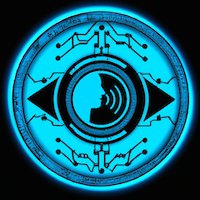
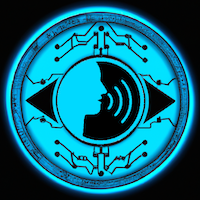
Improved visuals
Made the token better
Adjusted visual sizes so transitions didn't jump

diff --git a/application/frontend/src/components/TargetVisualizer.js b/application/frontend/src/components/TargetVisualizer.js
@@ -30,7 +30,7 @@ function TargetVisualizer({ numberOfRings, fillAmount, useRed }) {
     const selectedColors = getSelectedColors(colors, ringsToDisplay);
 
     return (
-        <svg viewBox="0 0 100 100" width="100%" height="100%">
+        <svg viewBox="0 0 100 100" width="100px" height="100px">
             <circle
                 cx="50"
                 cy="50"

diff --git a/application/frontend/src/css/Conversation.css b/application/frontend/src/css/Conversation.css
@@ -1,9 +1,8 @@
 
 .conversation-row svg {
-  width: 120px; 
+  width: 100px; 
   display: block;
   margin: 10px;
-  margin-left: 30px;
 }
 
 .conversation-container {
